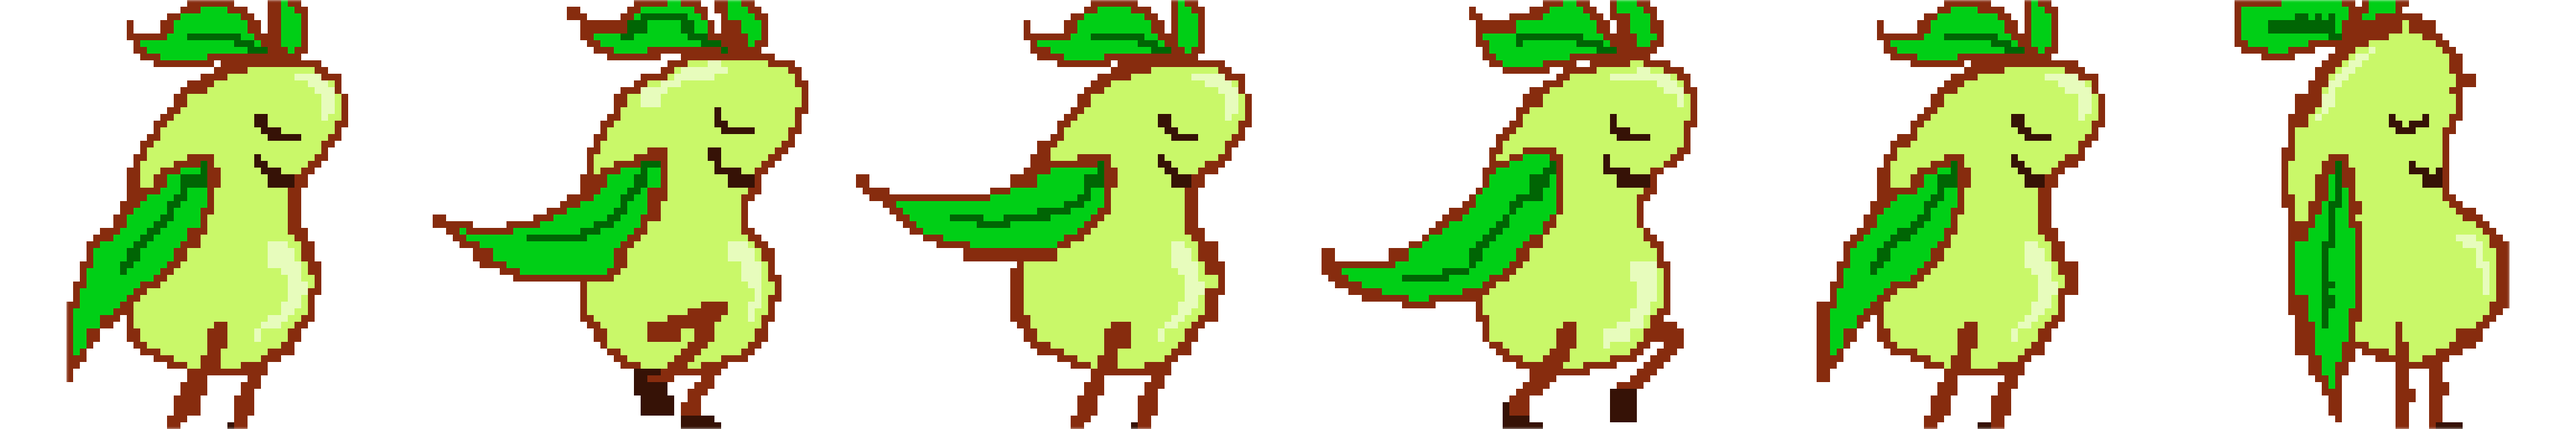
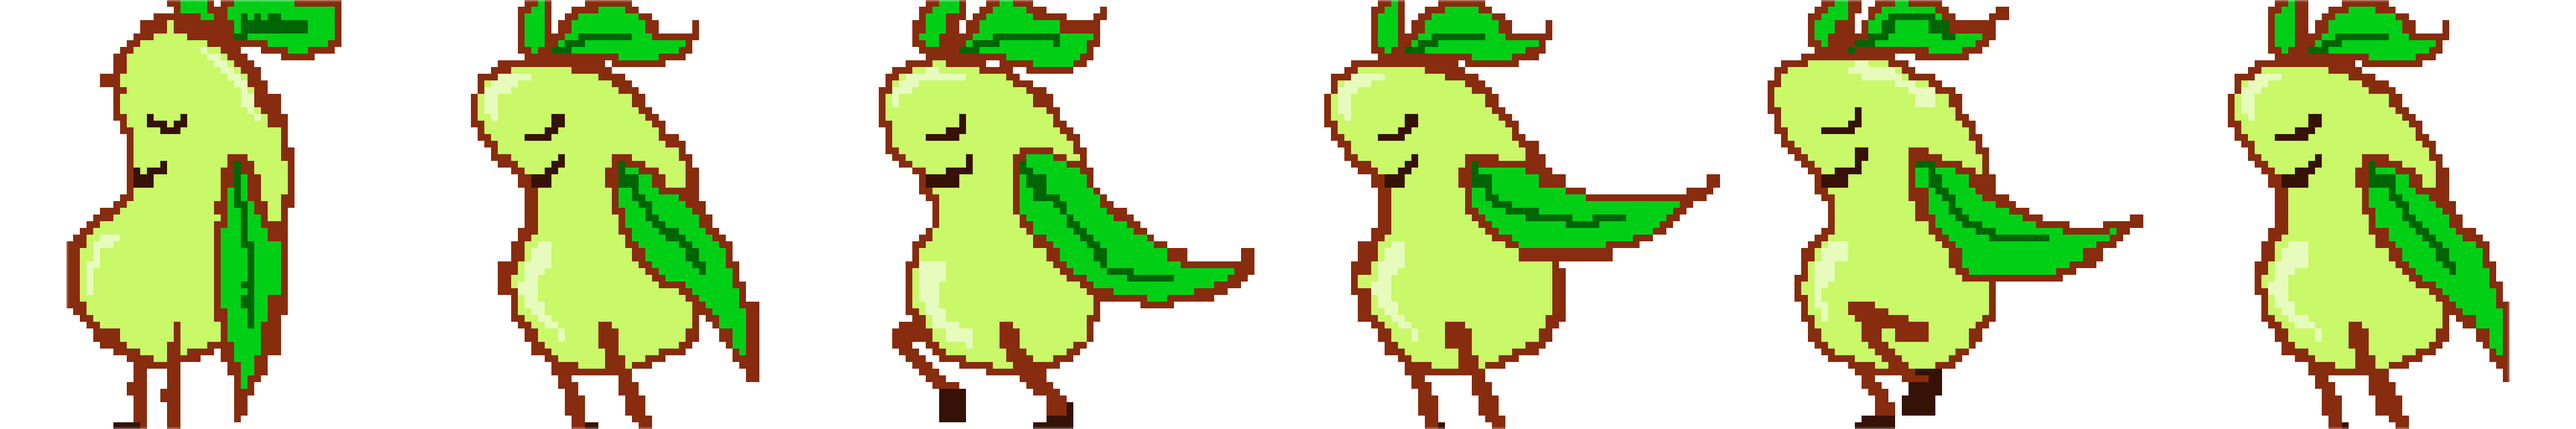
fixed left+right running

diff --git a/src/game/arena.js b/src/game/arena.js
@@ -59,11 +59,11 @@ export default class Arena extends Phaser.Scene {
       frameWidth: 640,
       frameHeight: 640
     })
-    this.load.spritesheet('Leaf2Ball', 'assets/Leaf2Ball.png', {
-      frameWidth: 64,
-      frameHeight: 64
-    })
     this.load.spritesheet('right', 'assets/RunBeanRight.png', {
+      frameWidth: 640,
+      frameHeight: 630
+    })
+    this.load.spritesheet('Leaf2Ball', 'assets/Leaf2Ball.png', {
       frameWidth: 64,
       frameHeight: 64
     })
@@ -342,6 +342,12 @@ export default class Arena extends Phaser.Scene {
       repeat: -1
     })
     this.anims.create({
+      key: 'right',
+      frames: this.anims.generateFrameNumbers('right', { start: 0, end: 5 }),
+      frameRate: 12,
+      repeat: -1
+    })
+    this.anims.create({
       key: 'hop',
       frames: this.anims.generateFrameNumbers('hop'),
       frameRate: 15,
@@ -413,11 +419,18 @@ export default class Arena extends Phaser.Scene {
         if(fighter.anims.getName() !== 'Bean2Ball') {
           fighter.anims.play('Bean2Ball')
         }
-      } else if ((LEFT > 0 || RIGHT > 0) 
+      } else if ((LEFT > 0 && RIGHT === 0) 
         && fighter.state === Stances.IDLE 
         && fighter.body.velocity.y === 0) {
-          if (fighter.state !== Stances.DASH) fighter.setFlipX(LEFT > 0)
+          // if (fighter.state !== Stances.DASH) fighter.setFlipX(LEFT > 0)
+          console.log('left')
           fighter.anims.play('left', 24, false)
+      } else if ((LEFT === 0 && RIGHT > 0) 
+      && fighter.state === Stances.IDLE 
+      && fighter.body.velocity.y === 0) {
+        // if (fighter.state !== Stances.DASH) fighter.setFlipX(LEFT > 0)
+        console.log('right')
+        fighter.anims.play('right', 24, false)
       } else if (buttons.B0) {
         fighter.anims.play('hop')
       } else {
@@ -442,7 +455,10 @@ export default class Arena extends Phaser.Scene {
               fighter.anims.stop('left', 24, false)
             }
             break
-          case '':
+          case 'right':
+            if (LEFT == 0 || RIGHT == 0) {
+              fighter.anims.stop('right', 24, false)
+            }
             break
           default:
             return
